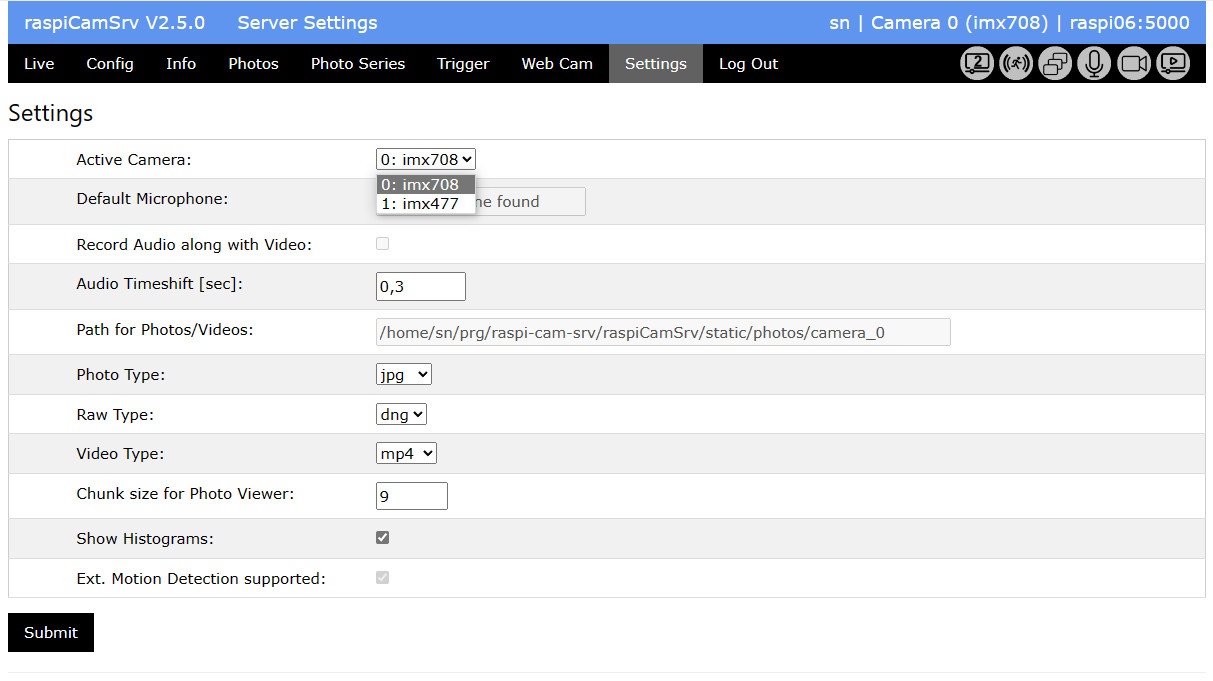
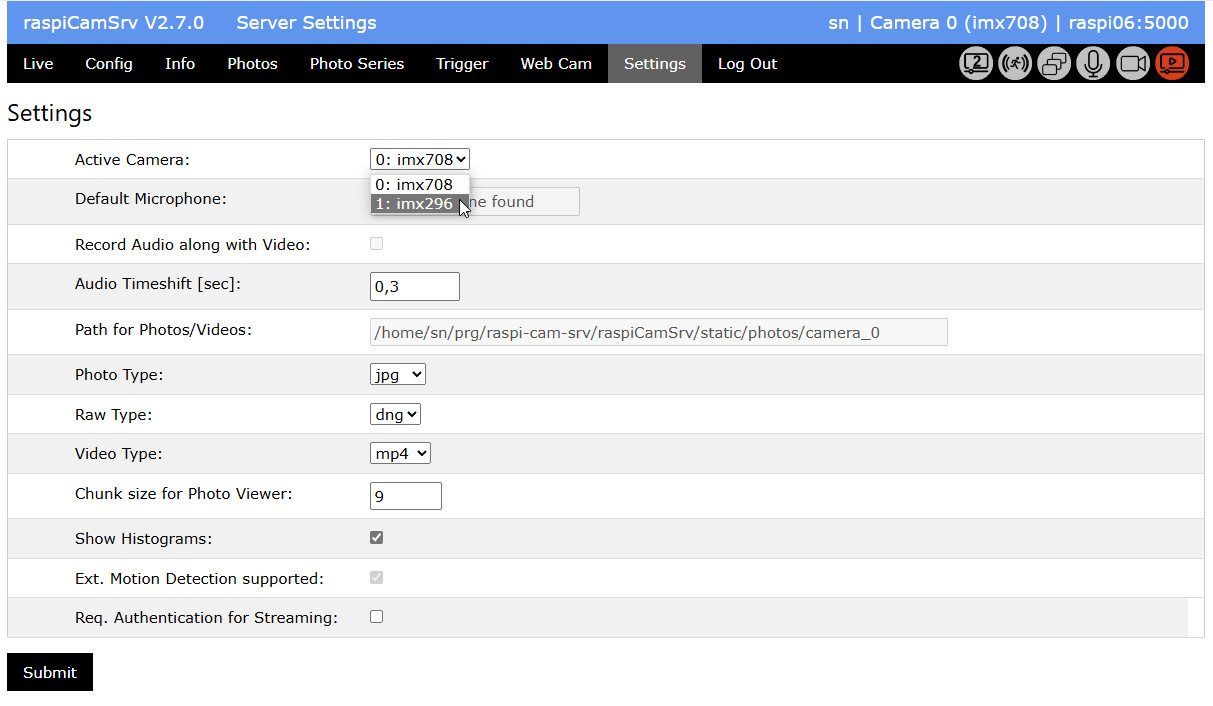
V2.7.0 - See Release Notes

diff --git a/raspiCamSrv/templates/settings/main.html b/raspiCamSrv/templates/settings/main.html
@@ -249,6 +249,23 @@
                     {% endif %}
                     </td>
                 </tr>
+                <tr>
+                    <td style="width:5%">
+                    </td>
+                    <td style="width:25%" class="w3-tooltip">
+                        <span style="position:absolute;left:0;bottom:30px" class="w3-text w3-tag">
+                            Select whether streaming requires authentication.
+                        </span>
+                        <label for="requireAuthForStreaming">Req. Authentication for Streaming:</label>
+                    </td>
+                    <td style="width:70%">
+                        {% if sc.requireAuthForStreaming == True %}
+                        <input type="checkbox" id="requireAuthForStreaming" name="requireAuthForStreaming" value="1" checked>
+                        {% else %}
+                        <input type="checkbox" id="requireAuthForStreaming" name="requireAuthForStreaming" value="0">
+                        {% endif %}
+                    </td>
+                </tr>
             </table>
             <p style="margin-bottom: 0"></p>
             <input class="w3-button w3-black" type="submit" value="Submit">

diff --git a/raspiCamSrv/home.py b/raspiCamSrv/home.py
@@ -1,6 +1,6 @@
 from flask import current_app, Blueprint, Response, flash, g, redirect, render_template, request, url_for
 from werkzeug.exceptions import abort
-from raspiCamSrv.auth import login_required
+from raspiCamSrv.auth import login_required, login_for_streaming
 from raspiCamSrv.camera_pi import Camera
 from raspiCamSrv.camCfg import CameraCfg, ServerConfig
 from raspiCamSrv.version import version
@@ -59,7 +59,7 @@ def gen2(camera):
             yield b'Content-Type: image/jpeg\r\n\r\n' + frame + b'\r\n--frame\r\n'
 
 @bp.route("/video_feed")
-# @login_required
+@login_for_streaming
 def video_feed():
     logger.debug("Thread %s: In video_feed", get_ident())
     Camera().startLiveStream()
@@ -67,7 +67,7 @@ def video_feed():
                     mimetype='multipart/x-mixed-replace; boundary=frame')
 
 @bp.route("/video_feed2")
-# @login_required
+@login_for_streaming
 def video_feed2():
     logger.debug("Thread %s: In video_feed2", get_ident())
     Camera().startLiveStream2()

diff --git a/raspiCamSrv/auth.py b/raspiCamSrv/auth.py
@@ -273,3 +273,26 @@ def login_required(view):
         return view(**kwargs)
 
     return wrapped_view
+
+def login_for_streaming(view):
+    @functools.wraps(view)
+    def wrapped_view(**kwargs):
+        logging.getLogger("werkzeug").setLevel(logging.ERROR)
+        sc = CameraCfg().serverConfig
+        if sc.requireAuthForStreaming == True:
+            if g.user is None:
+                db = get_db()
+                nrUsers = 0
+                try:
+                    nrUsers = db.execute("SELECT COUNT(*) from user").fetchone()[0]
+                except db.Error as e:
+                    logger.error("Database error: %s", e)
+                    nrUsers = 0
+                if nrUsers == 0:
+                    return redirect(url_for("auth.register"))
+                else:
+                    return redirect(url_for("auth.login"))
+
+        return view(**kwargs)
+
+    return wrapped_view

diff --git a/raspiCamSrv/webcam.py b/raspiCamSrv/webcam.py
@@ -6,7 +6,7 @@ from raspiCamSrv.version import version
 from _thread import get_ident
 import copy
 
-from raspiCamSrv.auth import login_required
+from raspiCamSrv.auth import login_required, login_for_streaming
 import logging
 
 bp = Blueprint("webcam", __name__)
@@ -116,14 +116,14 @@ def genPhoto2(camera):
         yield b'Content-Type: image/jpeg\r\n\r\n' + frame + b'\r\n--frame\r\n'
 
 @bp.route("/photo_feed")
-# @login_required
+@login_for_streaming
 def photo_feed():
     logger.debug("Thread %s: In photo_feed", get_ident())
     Camera().startLiveStream()
     return Response(genPhoto(Camera()), mimetype='multipart/x-mixed-replace; boundary=frame')
 
 @bp.route("/photo_feed2")
-# @login_required
+@login_for_streaming
 def photo_feed2():
     logger.debug("Thread %s: In photo_feed2", get_ident())
     Camera().startLiveStream2()

diff --git a/raspiCamSrv/camCfg.py b/raspiCamSrv/camCfg.py
@@ -2188,6 +2188,7 @@ class ServerConfig():
         self._numpyAvailable = False
         self._matplotlibAvailable = False
         self._useHistograms = False
+        self._requireAuthForStreaming = False
         
         # Check access of microphone
         self.checkMicrophone()
@@ -2805,6 +2806,15 @@ class ServerConfig():
             if not self.numpyAvailable:
                 why = why + "<br>module numpy is not available"
         return why
+
+
+    @property
+    def requireAuthForStreaming(self) -> bool:
+        return self._requireAuthForStreaming
+
+    @requireAuthForStreaming.setter
+    def requireAuthForStreaming(self, value: bool):
+        self._requireAuthForStreaming = value
     
     @property
     def processInfo(self) -> str:

diff --git a/raspiCamSrv/__init__.py b/raspiCamSrv/__init__.py
@@ -73,7 +73,7 @@ def create_app(test_config=None):
     #logging.getLogger("picamera2").addHandler(filehandler)
         
     #>>>>> Set log level for libcamera (0:DEBUG, 1:INFO, 2:WARNING, 3:ERROR, 4:FATAL)
-    os.environ["LIBCAMERA_LOG_LEVELS"] = "*:2"
+    os.environ["LIBCAMERA_LOG_LEVELS"] = "*:3"
 
     #Configure the logger for generation of program code
     #This logger generates an executable Picamera2 Python application program

diff --git a/raspiCamSrv/settings.py b/raspiCamSrv/settings.py
@@ -83,6 +83,7 @@ def serverconfig():
             if not useHist:
                 sc.displayContent = "meta"
             sc.useHistograms = useHist
+            sc.requireAuthForStreaming = not request.form.get("requireAuthForStreaming") is None
         if msg:
             flash(msg)
     return render_template("settings/main.html", sc=sc, cp=cp, cs=cs, los=los)

diff --git a/raspiCamSrv/version.py b/raspiCamSrv/version.py
@@ -1,1 +1,1 @@
-version="V2.6.3"
+version="V2.7.0"

diff --git a/README.md b/README.md
@@ -9,15 +9,17 @@ Up to now, it was tested on Pi Zero W, Pi Zero 2 W, Pi 4 and Pi 5 running Bullse
 
 Due to responsive layout from [W3.CSS](https://www.w3schools.com/w3css/), all modern browsers on PC, Mac or mobile devices can be used as clients.
 
-## Feature Overview V2.6.3
+## Feature Overview V2.7.0
 For more details and [update procedure](./docs/ReleaseNotes.md#update-procedure), see the [User Guide](docs/UserGuide.md) and [Release Notes](./docs/ReleaseNotes.md).    
 For [installation procedure](#raspicamsrv-installation), see [below](#raspicamsrv-installation).
 
 ![Live Overview](docs/img/Live.jpg)
 
 - The [Live screen](docs/LiveScreen.md) shows a live stream of the active camera and allows individually selecting and setting all [camera controls](docs/CameraControls.md) supported by Picamera2.
-- The **live stream** (MJPEG stream) can also be directly accessed through the endpoint ```http://<server>:<port>/video_feed``` without authentication.
-- Web access to photo snapshots is achieved through the URL ```http://<server>:<port>/photo_feed``` without authentication.
+- The **live stream** (MJPEG stream) can also be directly accessed through the endpoint ```http://<server>:<port>/video_feed```.   
+It can be configured whether or not authentication is required.
+- Web access to photo snapshots is achieved through the URL ```http://<server>:<port>/photo_feed```.   
+The setting for necessity of authentication applies also to photo snapshots.
 - For systems with 2 Raspberry Pi cameras (currently Pi 5) both cameras can stream simultaneously.    
 The non-active camera stream and photo can be accessed through endpoints ```http://<server>:<port>/video_feed2``` and ```http://<server>:<port>/photo_feed2```, respectively.
 - Triggered capture of videos and photos (see [Triggered Capture of Videos and Photos](./docs/Trigger.md)) with motion detection

diff --git a/docs/Settings.md b/docs/Settings.md
@@ -13,6 +13,19 @@ Only non-USB cameras are offered for selection (see also [Information](./Informa
 
 ![Camera Switch](img/Settings_CamSel.jpg)
 
+## Configuring Authentication for Streaming
+
+It can be configured whether streaming of videos or photos requires authentication:
+
+![Settings](img/Settings_Auth_Streaming.jpg)
+
+- If the checkbox is not checked, the system allows access to video streams or photos for everybody without authentication.
+- If the checkbox is checked, video streams or photos can only be accessed if a valid session is active.   
+If a streaming URL is entered in a browser and there is no valid Flask session, the login screen is shown and, after having entered valid credentials, the [Live](./LiveScreen.md) screen is shown. Now, the desired streaming URL can be directly entered or selected from the [Web Cam](./Webcam.md) screen.   
+A valid Flask session exists, if login has been passed once within an active browser instance, either in another tab of the browser window intended for streaming or within another window of the **same** browser.   
+Closing all windows of a browser kills the session. 
+
+
 ## Activating / Deactivating Histograms
 
 **raspiCamSrv** can show histograms for photos.   

diff --git a/docs/ReleaseNotes.md b/docs/ReleaseNotes.md
@@ -28,6 +28,17 @@ or
 or    
 ```journalctl --user -e```
 
+## V2.7.0
+
+### New Features
+
+- For streaming access, it can now be configured in the [Settings](./Settings.md) screen whether authentication is required or not.   
+The default is that authentication is not required, as before.   
+This modification has been made for Feature Request [#20](https://github.com/signag/raspi-cam-srv/issues/20)
+
+### Changes
+- The default log level for libcamera was set to ERROR instead of WARNING in order to suppress V4L2 pixel format warnings.
+
 ## V2.6.3
 
 ### Bugfixes
